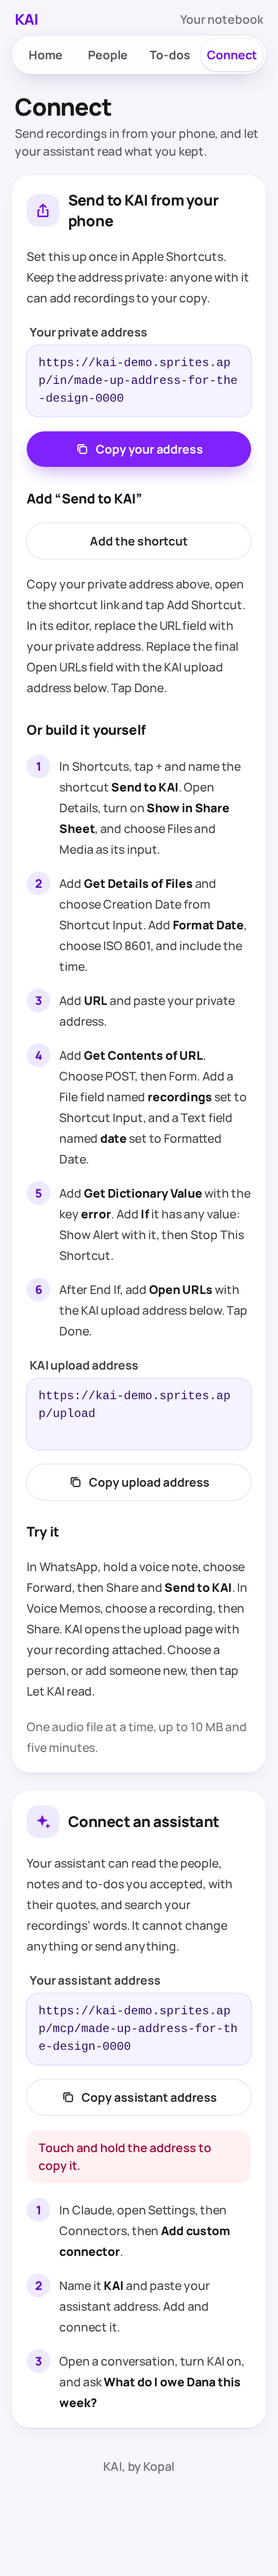
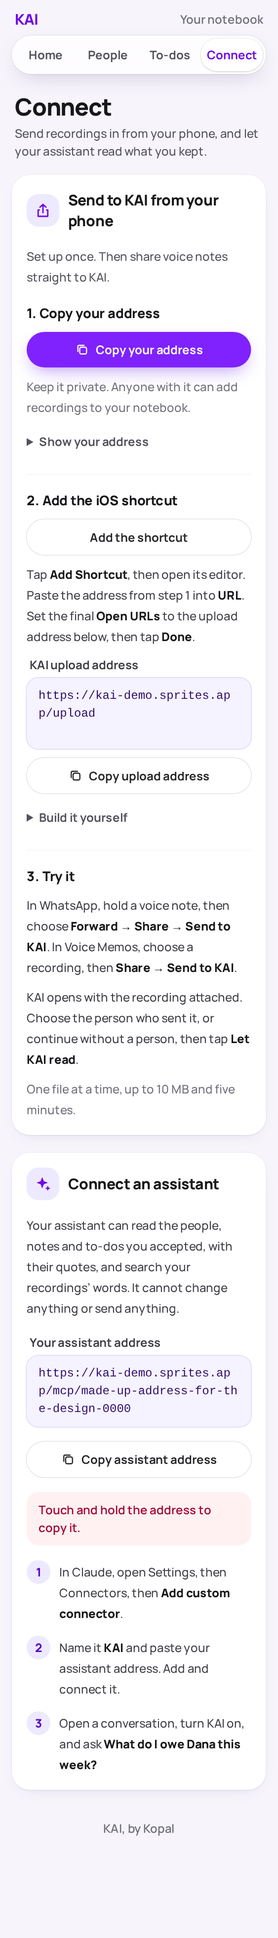
Make phone shortcut setup three clear steps

Changed region(s): [[0.0604, 0.0, 0.9361, 0.9638], [0.1208, 0.8394, 0.151, 0.9016], [0.8757, 0.5285, 0.9059, 0.5596]]

diff --git a/src/look/screens/Connect.tsx b/src/look/screens/Connect.tsx
@@ -1,7 +1,7 @@
 import type { ReactNode } from 'react'
 import { Icon, type IconName } from '../icons'
 import type { Connection } from '../types'
-import { Button, Card, Notice, TabPage, WhatIsKai } from '../ui'
+import { Button, Card, FOCUS, Notice, TabPage, WhatIsKai } from '../ui'
 
 /** An address to copy: shown whole, selectable, never a field you type in. */
 function Address({ label, id, value }: { label: string; id: string; value: string }) {
@@ -58,7 +58,11 @@ export function Connect({
   error,
   copyError,
   onCopy,
+  showManual,
+  showAddress,
 }: {
+  showManual?: boolean
+  showAddress?: boolean
   connection: Connection | null
   readOnly: boolean
   due?: 'overdue' | 'soon'
@@ -85,50 +89,61 @@ export function Connect({
           </>
         ) : (
           <>
-            <p className="text-base/7 font-medium text-zinc-700">Set this up once in Apple Shortcuts. Keep the address private: anyone with it can add recordings to your copy.</p>
-            <Address label="Your private address" id="sharing-address" value={connection.uploadAddress} />
-            <Button variant="primary" wide icon="copy" onClick={() => onCopy('upload', connection.uploadAddress)}>
-              Copy your address
-            </Button>
-            {feedback('upload')}
-
-            <h3 className="pt-2 text-lg font-extrabold">Add “Send to KAI”</h3>
-            <Button variant="outline" wide href="https://www.icloud.com/shortcuts/5d7d8a29c386458bb5c95b14c35ac6ab">Add the shortcut</Button>
-            <p className="text-base/7 font-medium text-zinc-700">Copy your private address above, open the shortcut link and tap Add Shortcut. In its editor, replace the URL field with your private address. Replace the final Open URLs field with the KAI upload address below. Tap Done.</p>
-            <h3 className="pt-2 text-lg font-extrabold">Or build it yourself</h3>
-            <Steps>
-              {[
-                <>
-                  In Shortcuts, tap + and name the shortcut <B>Send to KAI</B>. Open Details, turn on <B>Show in Share Sheet</B>, and choose Files and Media as its input.
-                </>,
-                <>
-                  Add <B>Get Details of Files</B> and choose Creation Date from Shortcut Input. Add <B>Format Date</B>, choose ISO 8601, and include the time.
-                </>,
-                <>
-                  Add <B>URL</B> and paste your private address.
-                </>,
-                <>
-                  Add <B>Get Contents of URL</B>. Choose POST, then Form. Add a File field named <B>recordings</B> set to Shortcut Input, and a Text field named <B>date</B> set to Formatted Date.
-                </>,
-                <>
-                  Add <B>Get Dictionary Value</B> with the key <B>error</B>. Add <B>If</B> it has any value: Show Alert with it, then Stop This Shortcut.
-                </>,
-                <>
-                  After End If, add <B>Open URLs</B> with the KAI upload address below. Tap Done.
-                </>,
-              ]}
-            </Steps>
-            <Address label="KAI upload address" id="home-address" value={connection.homeAddress} />
-            <Button variant="outline" wide icon="copy" onClick={() => onCopy('home', connection.homeAddress)}>
-              Copy upload address
-            </Button>
-            {feedback('home')}
-
-            <h3 className="pt-2 text-lg font-extrabold">Try it</h3>
-            <p className="text-base/7 font-medium text-zinc-700">
-              In WhatsApp, hold a voice note, choose Forward, then Share and <B>Send to KAI</B>. In Voice Memos, choose a recording, then Share. KAI opens the upload page with your recording attached. Choose a person, or add someone new, then tap Let KAI read.
-            </p>
-            <p className="text-base/7 font-medium text-zinc-500">One audio file at a time, up to 10 MB and five minutes.</p>
+            <p className="text-base/7 font-medium text-zinc-600">Set up once. Then share voice notes straight to KAI.</p>
+            <ol aria-label="Phone setup" className="divide-y divide-zinc-100">
+              <li className="space-y-3 pb-5">
+                <h3 className="text-lg font-extrabold">1. Copy your address</h3>
+                <Button variant="primary" wide icon="copy" onClick={() => onCopy('upload', connection.uploadAddress)}>Copy your address</Button>
+                {feedback('upload')}
+                <p className="text-base/7 font-medium text-zinc-500">Keep it private. Anyone with it can add recordings to your notebook.</p>
+                <details open={showAddress || copyError?.at === 'upload' || undefined}>
+                  <summary className={`${FOCUS} min-h-11 cursor-pointer rounded-xl py-2 text-base font-bold text-zinc-600`}>Show your address</summary>
+                  <div className="pt-2"><Address label="Your private address" id="sharing-address" value={connection.uploadAddress}/></div>
+                </details>
+              </li>
+              <li className="space-y-3 py-5">
+                <h3 className="text-lg font-extrabold">2. Add the iOS shortcut</h3>
+                <Button variant="outline" wide href="https://www.icloud.com/shortcuts/5d7d8a29c386458bb5c95b14c35ac6ab">Add the shortcut</Button>
+                <p className="text-base/7 font-medium text-zinc-700">Tap <B>Add Shortcut</B>, then open its editor. Paste the address from step 1 into <B>URL</B>. Set the final <B>Open URLs</B> to the upload address below, then tap <B>Done</B>.</p>
+                <Address label="KAI upload address" id="home-address" value={connection.homeAddress}/>
+                <Button variant="outline" wide icon="copy" onClick={() => onCopy('home', connection.homeAddress)}>Copy upload address</Button>
+                {feedback('home')}
+                <details open={showManual || undefined}>
+                  <summary className={`${FOCUS} min-h-11 cursor-pointer rounded-xl py-2 text-base font-bold text-zinc-600`}>Build it yourself</summary>
+                  <div className="space-y-4 pt-3">
+                    <p className="text-base/7 font-medium text-zinc-600">Only needed if you can’t add the shortcut above.</p>
+                    <Steps>
+                      {[
+                        <>
+                          In Shortcuts, tap + and name the shortcut <B>Send to KAI</B>. Open Details, turn on <B>Show in Share Sheet</B>, and choose Files and Media as its input.
+                        </>,
+                        <>
+                          Add <B>Get Details of Files</B> and choose Creation Date from Shortcut Input. Add <B>Format Date</B>, choose ISO 8601, and include the time.
+                        </>,
+                        <>
+                          Add <B>URL</B> and paste your private address.
+                        </>,
+                        <>
+                          Add <B>Get Contents of URL</B>. Choose POST, then Form. Add a File field named <B>recordings</B> set to Shortcut Input, and a Text field named <B>date</B> set to Formatted Date.
+                        </>,
+                        <>
+                          Add <B>Get Dictionary Value</B> with the key <B>error</B>. Add <B>If</B> it has any value: Show Alert with it, then Stop This Shortcut.
+                        </>,
+                        <>
+                          After End If, add <B>Open URLs</B> with the KAI upload address above. Tap Done.
+                        </>,
+                      ]}
+                    </Steps>
+                  </div>
+                </details>
+              </li>
+              <li className="space-y-3 pt-5">
+                <h3 className="text-lg font-extrabold">3. Try it</h3>
+                <p className="text-base/7 font-medium text-zinc-700">In WhatsApp, hold a voice note, then choose <B>Forward → Share → Send to KAI</B>. In Voice Memos, choose a recording, then <B>Share → Send to KAI</B>.</p>
+                <p className="text-base/7 font-medium text-zinc-700">KAI opens with the recording attached. Choose the person who sent it, or continue without a person, then tap <B>Let KAI read</B>.</p>
+                <p className="text-base/7 font-medium text-zinc-500">One file at a time, up to 10 MB and five minutes.</p>
+              </li>
+            </ol>
           </>
         )}
       </Card>

diff --git a/tests/phone/connect.spec.ts b/tests/phone/connect.spec.ts
@@ -8,6 +8,10 @@ test('Connect explains the shortcut at 375 px and copies an address without show
   await page.goto('/');await page.evaluate(value=>{history.replaceState(null,'',`/#judge=${value}`);location.reload();},kai.secret);
   await page.getByRole('link',{name:'Try it yourself'}).click();await page.getByRole('link',{name:'Connect',exact:true}).click();
   await expect(page.getByRole('button',{name:'Copy your address',exact:true})).toBeEnabled();
+  await expect(page.locator('ol[aria-label="Phone setup"] > li > h3')).toHaveText(['1. Copy your address','2. Add the iOS shortcut','3. Try it']);
+  await expect(page.getByText('Show in Share Sheet',{exact:false})).toBeHidden();
+  await expect(page.getByLabel('Your private address')).toBeHidden();await assertPhone(page);
+  await page.locator('summary').filter({hasText:'Build it yourself'}).click();
   await expect(page.getByText('Show in Share Sheet',{exact:false})).toBeVisible();
   await expect(page.getByText('Get Contents of URL',{exact:false})).toBeVisible();await assertPhone(page);
   await page.evaluate(()=>Object.defineProperty(navigator,'clipboard',{configurable:true,value:{writeText:async(value:string)=>{document.body.dataset.copied=value;}}}));
@@ -20,6 +24,12 @@ test('Connect explains the shortcut at 375 px and copies an address without show
   await expect(page.getByRole('status')).toBeVisible();
   const feedback=await page.getByRole('status').boundingBox(),button=await page.getByRole('button',{name:'Copy assistant address',exact:true}).boundingBox();
   expect(Math.abs(feedback!.y-button!.y)).toBeLessThan(100);
+  await page.locator('summary').filter({hasText:'Build it yourself'}).click();
+  await expect(page.getByText('Show in Share Sheet',{exact:false})).toBeHidden();
+  await page.evaluate(()=>Object.defineProperty(navigator,'clipboard',{configurable:true,value:{writeText:async()=>{throw new Error('Clipboard unavailable');}}}));
+  await page.getByRole('button',{name:'Copy your address',exact:true}).click();
+  await expect(page.getByText('Touch and hold the address to copy it.')).toBeVisible();
+  await expect(page.getByLabel('Your private address')).toBeVisible();
   await assertPhone(page);
 });
 

diff --git a/design/gallery.tsx b/design/gallery.tsx
@@ -124,6 +124,8 @@ const STATES: Record<string, { title: string; screen: () => ReactNode }> = {
   'person/failed': { title: 'Person · could not load', screen: () => <Person person={null} readOnly={false} today={today} error="This person could not load. Go to People and try again." onFiles={nothing} /> },
   'todos/failed': { title: 'To-dos · could not finish', screen: () => <Todos todos={data.todos} readOnly={false} today={today} error="This to-do could not be finished. Try ticking it again." onFiles={nothing} onTick={nothing} /> },
   'recording/edit-failed': { title: 'Recording · edit could not save', screen: () => <LiveRecording first={data.recordings.ready} editing="s3" error="Check the words and use a real date." /> },
+  'connect/manual': {title:'Connect · build shortcut manually',screen:()=> <Connect connection={data.connection} readOnly={false} showManual onCopy={nothing}/>},
+  'connect/address': {title:'Connect · show private address',screen:()=> <Connect connection={data.connection} readOnly={false} showAddress onCopy={nothing}/>},
   'connect/loading': { title: 'Connect · loading', screen: () => <Connect connection={null} readOnly={false} onCopy={nothing} /> },
   'connect/failed': { title: 'Connect · could not load', screen: () => <Connect connection={null} readOnly={false} error="Your address could not load. Reload this page to try again." onCopy={nothing} /> },
   'connect/copy-failed': { title: 'Connect · copy unavailable', screen: () => <Connect connection={data.connection} readOnly={false} copyError={{at:'assistant',text:'Touch and hold the address to copy it.'}} onCopy={nothing} /> },

diff --git a/tests/phone/usability.ts b/tests/phone/usability.ts
@@ -8,8 +8,9 @@ export async function assertPhone(page:Page) {
         if (!el.getClientRects().length) continue;
         if ([...el.childNodes].some(n => n.nodeType === Node.TEXT_NODE && n.textContent?.trim()) && parseFloat(getComputedStyle(el).fontSize)<16) issues.push('small text: '+el.textContent);
       }
-      for (const el of document.querySelectorAll('a,button,input,select,textarea')) {
+      for (const el of document.querySelectorAll('a,button,input,select,textarea,summary')) {
         if(el.hasAttribute('data-headlessui-focus-guard'))continue;
+        if(!el.getClientRects().length)continue;
         const r=el.getBoundingClientRect();
         if (r.width<44 || r.height<44) issues.push('small target: '+el.textContent);
       }

diff --git a/design/README.md b/design/README.md
@@ -45,7 +45,7 @@ and callbacks. The old global `src/style.css` is removed. Stock Catalyst is
 unchanged, including the dialog used for the editing sheet.
 
 The gallery includes loading and failure states needed by the live app.
-`check.mjs` checks all 64 states. The phone suite checks all public and judge
+`check.mjs` checks all 66 states. The phone suite checks all public and judge
 routes, choosing a person before an upload, shared recordings waiting for that choice, Home checkboxes, decisions, editing, errors and quote
 highlighting. It checks the filled violet's resting, hover and active colours,
 and waits for finite layout transitions to settle through retried assertions.
@@ -105,3 +105,8 @@ The trial gallery includes signup, busy, error, empty notebook and used quota st
 
 The trial also shows code entry and wrong-code states. Credit is granted only
 after verification, for at most 100 people and one trial per email/public IP.
+
+Phone setup is three compact steps: copy the private address, add the iOS
+shortcut, then try it. Manual setup is a closed disclosure under step 2.
+The private address is a separate disclosure, opened automatically if copying
+fails. Both expanded states are included in the gallery.
